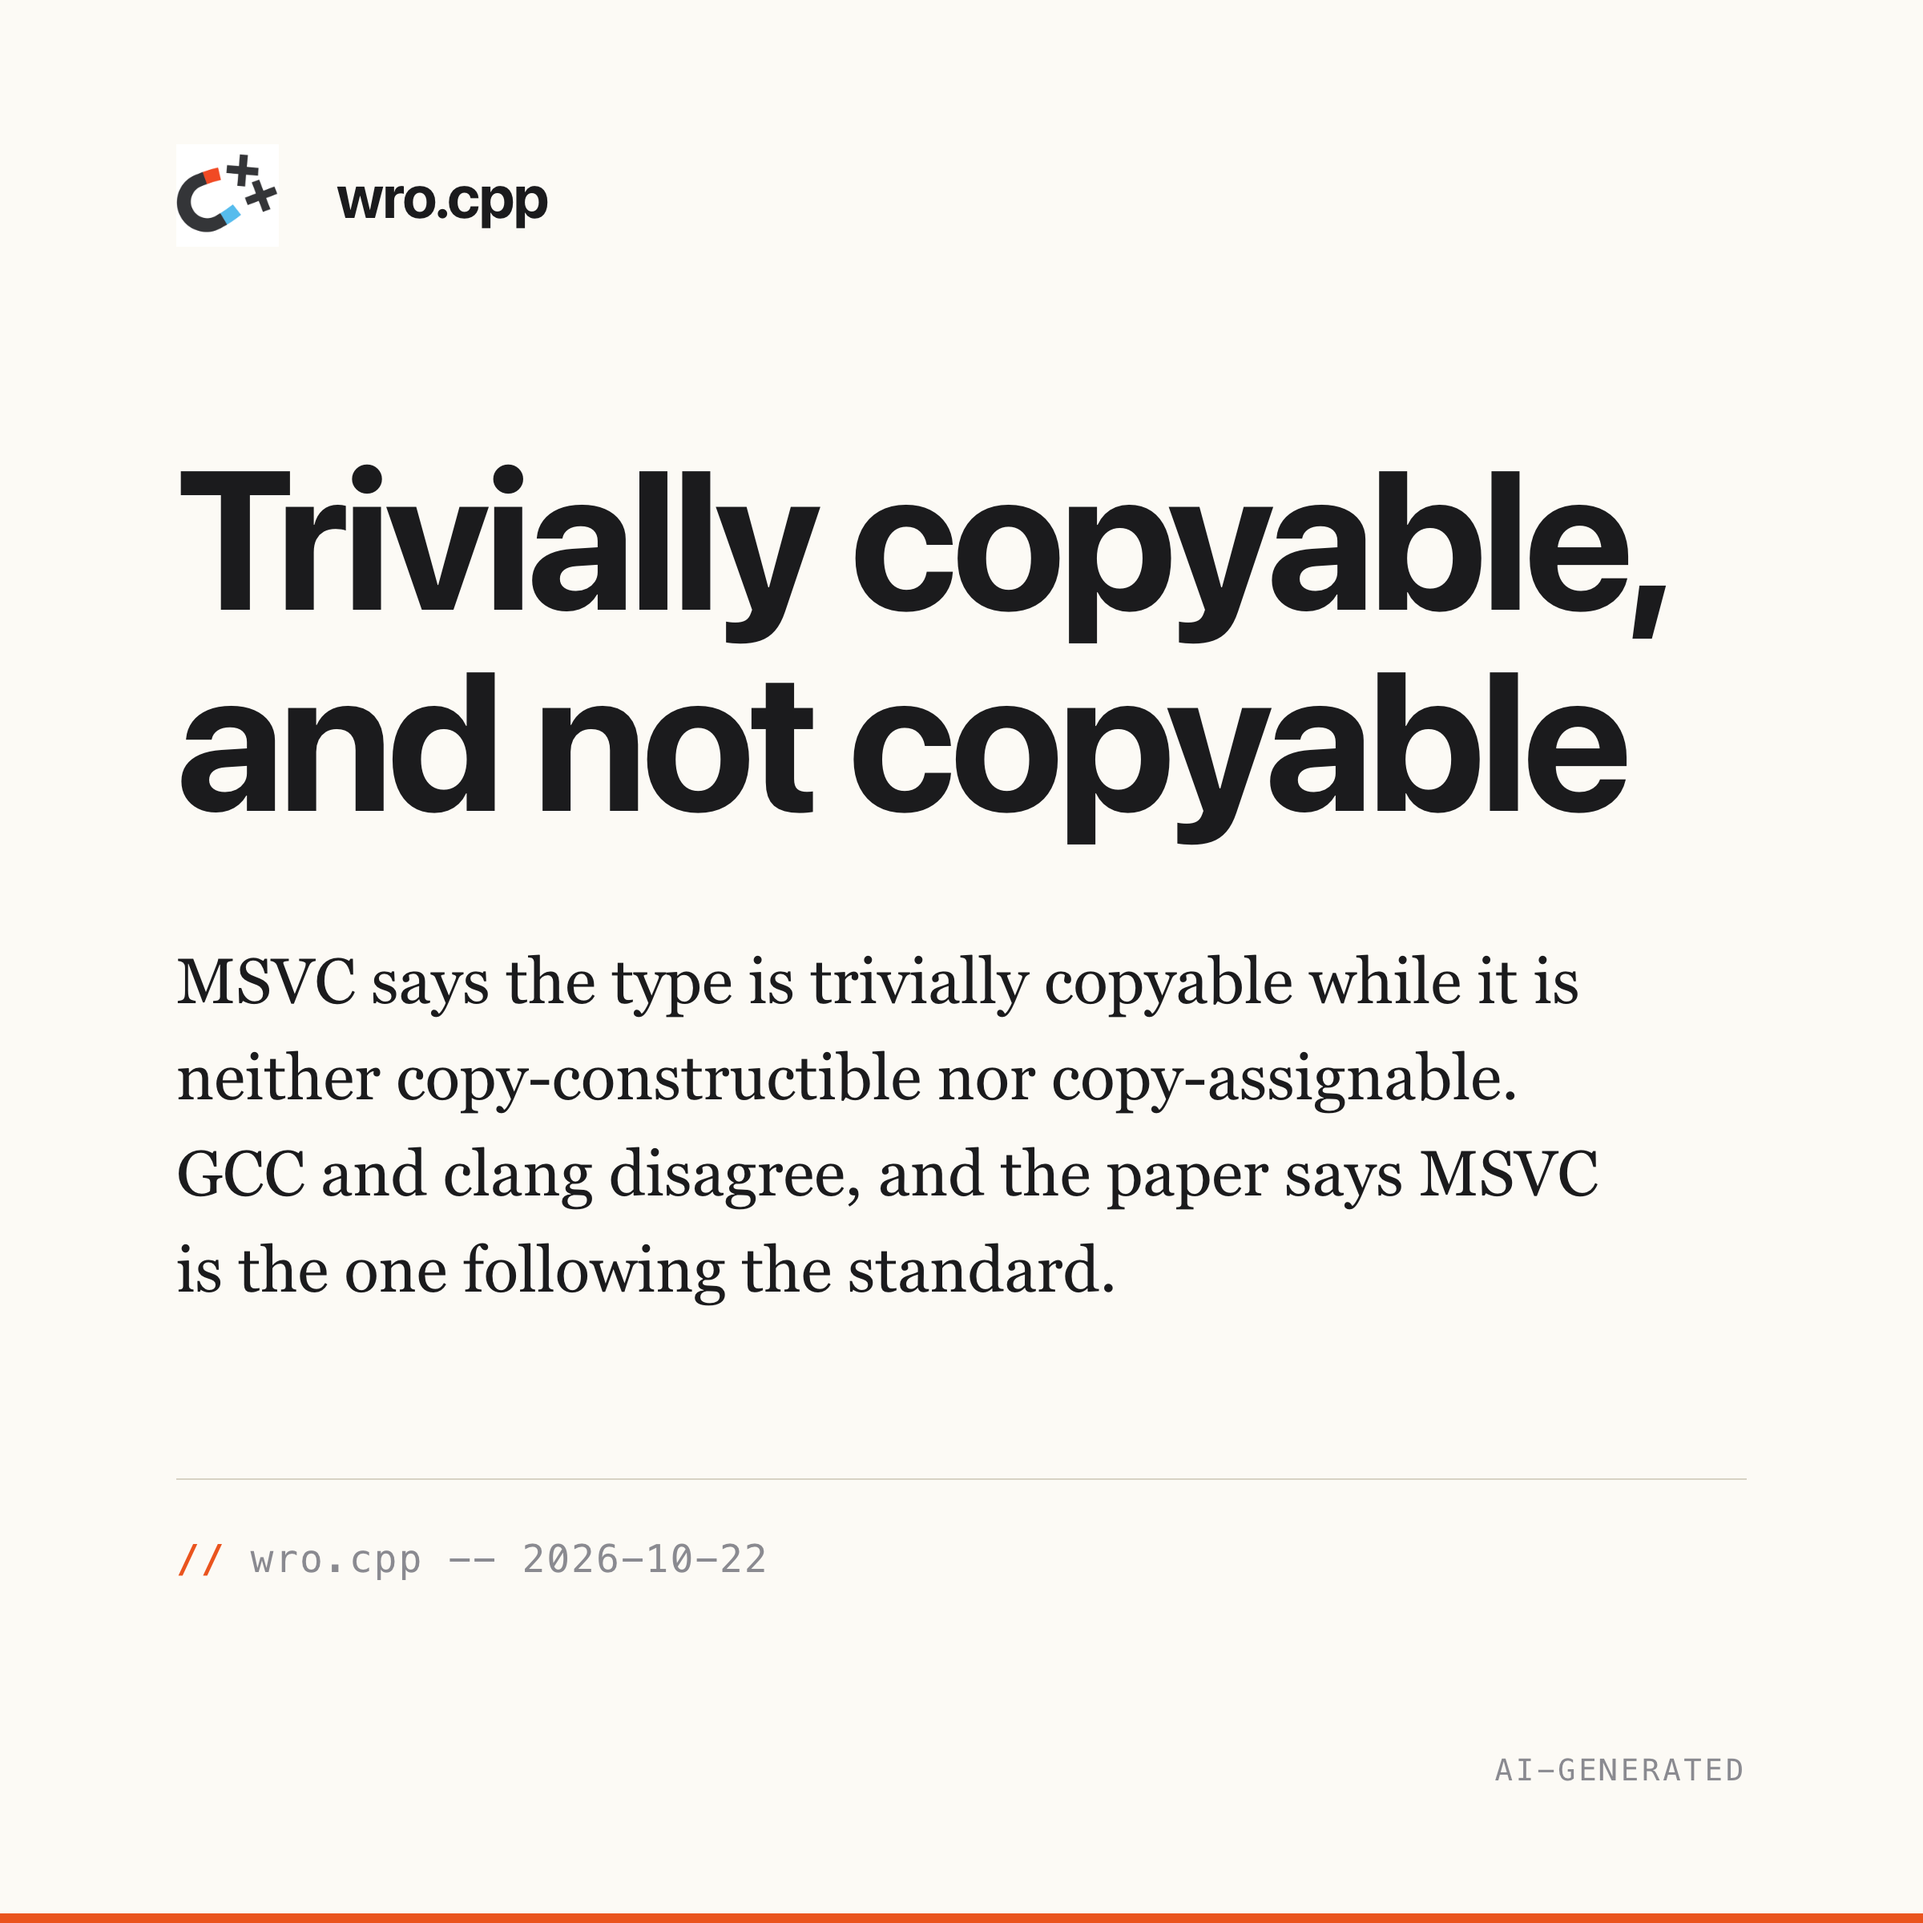
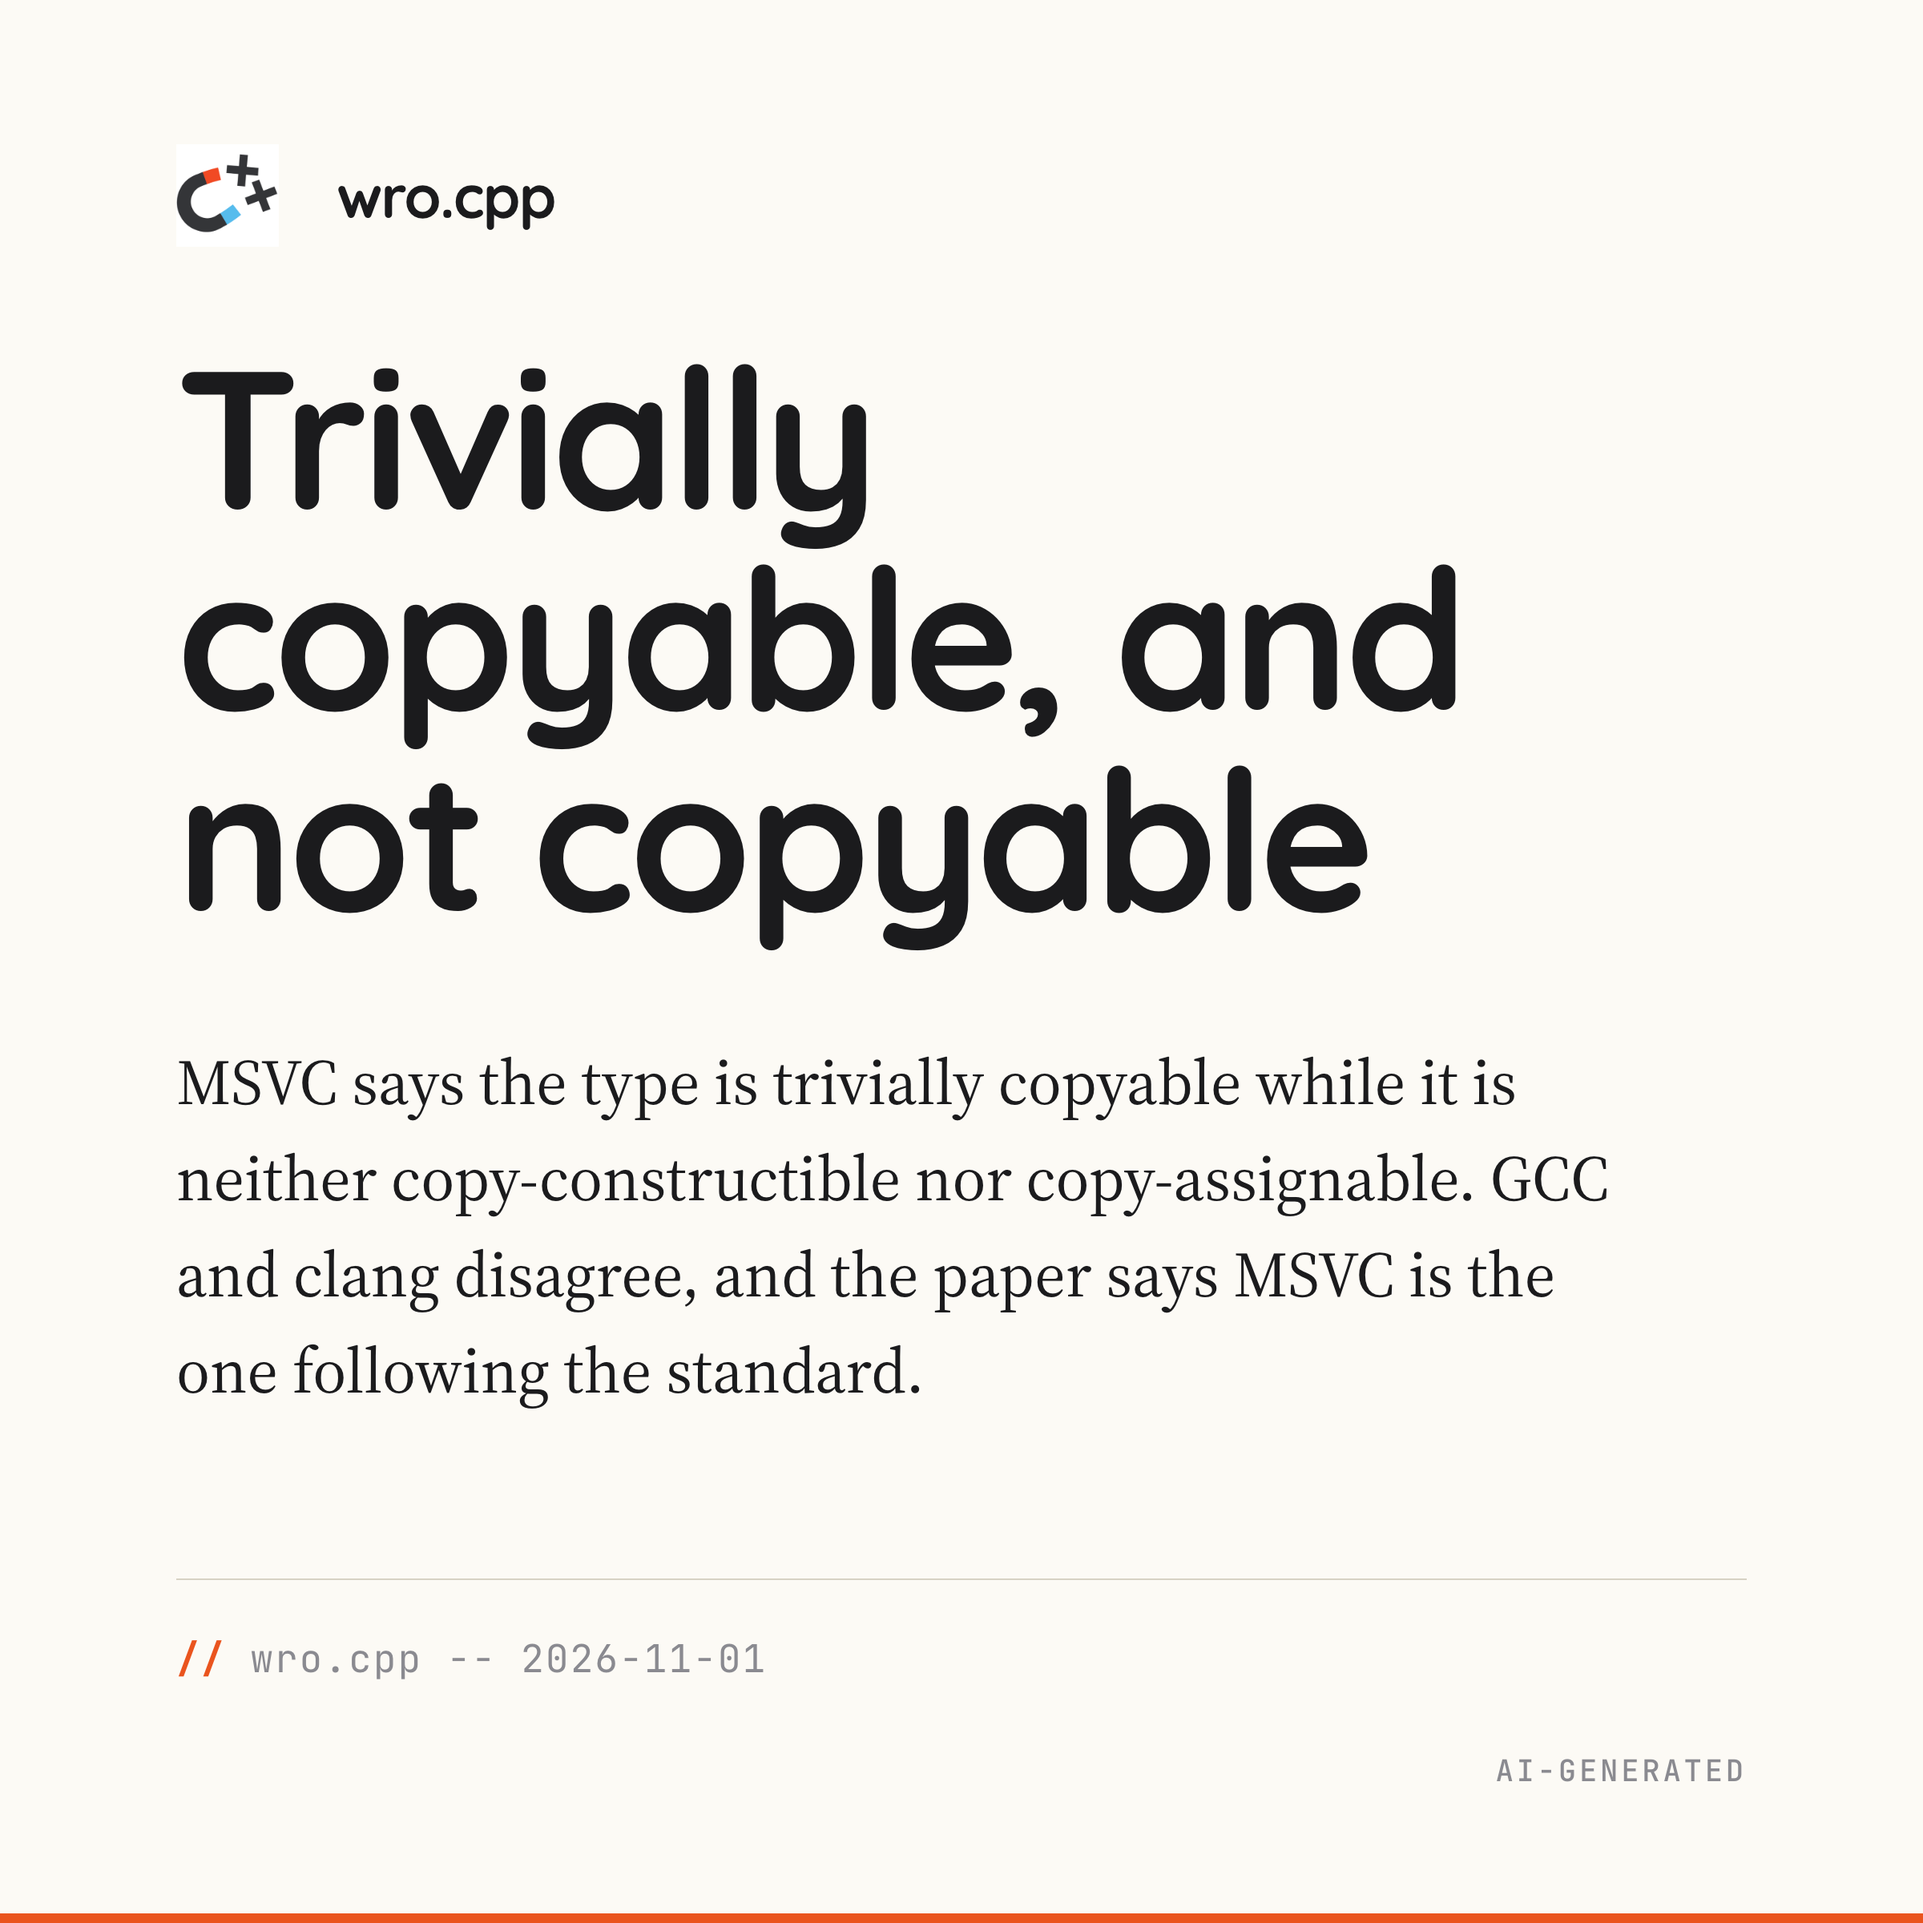
feat(social): re-date the trivially copyable card and captions to 1 November
Card date, config date and suggested post time (Sunday 1 November, 10:00 CET),
and a re-rendered card. The short moved from 22 October when that morning slot
went to the reflect-moc class template post.

Claude-Session: https://claude.ai/code/session_01BTCmkp4nQKAhWT8TGXF9KX

diff --git a/social/facebook/trivially-copyable-but-not-copyable/index.html b/social/facebook/trivially-copyable-but-not-copyable/index.html
@@ -23,6 +23,6 @@
   </defs>
 </svg>
 
-<section class="card card-insight dark"><div class="grid-bg"></div><div class="glow"></div><div class="insight-content"><h1>Trivially copyable, and not copyable</h1><p>MSVC says the type is trivially copyable while it is neither copy-constructible nor copy-assignable. GCC and clang disagree, and the paper says MSVC is the one following the standard.</p><div class="insight-citation">wro.cpp -- 2026-10-22</div></div><div class="logo-watermark top-left"><svg viewBox="0 0 512 512" aria-hidden="true"><use href="#scudo-logo"/></svg><span class="logo-wordmark">ScudoAI</span></div><div class="ai-badge">AI-generated</div></section>
+<section class="card card-insight dark"><div class="grid-bg"></div><div class="glow"></div><div class="insight-content"><h1>Trivially copyable, and not copyable</h1><p>MSVC says the type is trivially copyable while it is neither copy-constructible nor copy-assignable. GCC and clang disagree, and the paper says MSVC is the one following the standard.</p><div class="insight-citation">wro.cpp -- 2026-11-01</div></div><div class="logo-watermark top-left"><svg viewBox="0 0 512 512" aria-hidden="true"><use href="#scudo-logo"/></svg><span class="logo-wordmark">ScudoAI</span></div><div class="ai-badge">AI-generated</div></section>
 </body>
 </html>

diff --git a/social/linkedin/trivially-copyable-but-not-copyable/index.html b/social/linkedin/trivially-copyable-but-not-copyable/index.html
@@ -23,6 +23,6 @@
   </defs>
 </svg>
 
-<section class="card card-insight dark"><div class="grid-bg"></div><div class="glow"></div><div class="insight-content"><h1>Trivially copyable, and not copyable</h1><p>MSVC says the type is trivially copyable while it is neither copy-constructible nor copy-assignable. GCC and clang disagree, and the paper says MSVC is the one following the standard.</p><div class="insight-citation">wro.cpp -- 2026-10-22</div></div><div class="logo-watermark top-left"><svg viewBox="0 0 512 512" aria-hidden="true"><use href="#scudo-logo"/></svg><span class="logo-wordmark">ScudoAI</span></div><div class="ai-badge">AI-generated</div></section>
+<section class="card card-insight dark"><div class="grid-bg"></div><div class="glow"></div><div class="insight-content"><h1>Trivially copyable, and not copyable</h1><p>MSVC says the type is trivially copyable while it is neither copy-constructible nor copy-assignable. GCC and clang disagree, and the paper says MSVC is the one following the standard.</p><div class="insight-citation">wro.cpp -- 2026-11-01</div></div><div class="logo-watermark top-left"><svg viewBox="0 0 512 512" aria-hidden="true"><use href="#scudo-logo"/></svg><span class="logo-wordmark">ScudoAI</span></div><div class="ai-badge">AI-generated</div></section>
 </body>
 </html>

diff --git a/social/linkedin/trivially-copyable-but-not-copyable/caption.md b/social/linkedin/trivially-copyable-but-not-copyable/caption.md
@@ -26,5 +26,5 @@ Three compilers, one file: https://wrocpp.github.io/posts/trivially-copyable-but
 A wro.cpp card reading "Trivially copyable, and not copyable", about a type-trait divergence between compilers.
 
 ## Suggested post time
-Thursday 2026-10-22, 10:00 CET
-Reason: weekday mid-morning CET suits the EU C++ audience.
+Sunday 2026-11-01, 10:00 CET
+Reason: first free day. The post moved here from 2026-10-22, which now carries the reflect-moc class template post.

diff --git a/social/facebook/trivially-copyable-but-not-copyable/caption.md b/social/facebook/trivially-copyable-but-not-copyable/caption.md
@@ -24,5 +24,5 @@ Three compilers, one file: https://wrocpp.github.io/posts/trivially-copyable-but
 A wro.cpp card about a type-trait divergence between compilers.
 
 ## Suggested post time
-Thursday 2026-10-22, 10:00 CET
-Reason: weekday mid-morning CET suits the EU C++ audience.
+Sunday 2026-11-01, 10:00 CET
+Reason: first free day. The post moved here from 2026-10-22, which now carries the reflect-moc class template post.

diff --git a/social/facebook/trivially-copyable-but-not-copyable/content.md b/social/facebook/trivially-copyable-but-not-copyable/content.md
@@ -4,7 +4,7 @@ template: social/linkedin-post
 
 ::::post{type=insight theme=dark logo=top-left}
 
-:::insight{citation="wro.cpp -- 2026-10-22"}
+:::insight{citation="wro.cpp -- 2026-11-01"}
 # Trivially copyable, and not copyable
 MSVC says the type is trivially copyable while it is neither copy-constructible nor copy-assignable. GCC and clang disagree, and the paper says MSVC is the one following the standard.
 :::

diff --git a/social/linkedin/trivially-copyable-but-not-copyable/content.md b/social/linkedin/trivially-copyable-but-not-copyable/content.md
@@ -4,7 +4,7 @@ template: social/linkedin-post
 
 ::::post{type=insight theme=dark logo=top-left}
 
-:::insight{citation="wro.cpp -- 2026-10-22"}
+:::insight{citation="wro.cpp -- 2026-11-01"}
 # Trivially copyable, and not copyable
 MSVC says the type is trivially copyable while it is neither copy-constructible nor copy-assignable. GCC and clang disagree, and the paper says MSVC is the one following the standard.
 :::
